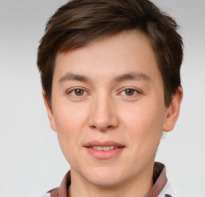
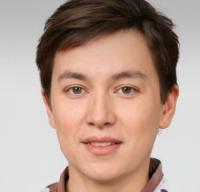
Init trad

diff --git a/Klass/mainwindow.cpp b/Klass/mainwindow.cpp
@@ -73,8 +73,39 @@ void MainWindow::setupInterfaceWithStudents()
 
 }
 
-void MainWindow::on_actiontrad_triggered()
+void MainWindow::on_actionTrad_triggered()
 {
+    static bool estEnFrancais = false;
+
+    if (!estEnFrancais) {
+        if (translator == nullptr) {
+            translator = new QTranslator(this);
+        }
+
+        if (translator->load(":/i18n/Klass_fr_FR")) {
+            qApp->installTranslator(translator);        //dans le tp on l'implémente dans le main avec a-> mais la il faut passer par qApp
+            estEnFrancais = true;
+            qDebug() << "[TRAD] French loaded from resources.";
+        } else {
+            qWarning() << "[TRAD] Failed to load :/i18n/Klass_fr_FR.";
+        }
+    }
+    else {
+        if (translator != nullptr) {
+            qApp->removeTranslator(translator);
+        }
+        estEnFrancais = false;
+        qDebug() << "[TRAD] Switched back to English.";
+    }
+
+    ui->retranslateUi(this);            // il est néssésaire de refresh l'app
+    //this->setWindowTitle(tr("Klass"));  // le titre n'est pas traduit dans le qm
+
+    // Si un étudiant est bien sélectionné on force le rafraîchissement de sa fiche pour traduire instantanément ses informations (comme le statut "Current"/"Modified")
+    int currentRow = ui->listWidget_student->currentRow();
+    if (currentRow >= 0 && currentRow < liste_of_students.size()) {
+        on_listWidget_student_currentRowChanged(currentRow);
+    }
 }
 
 
@@ -304,6 +335,9 @@ void MainWindow::on_pushButton_update_photo_clicked()
         s->setIdPhoto(nouvelleImage);
     }
 }
+
+
+
 
 
 void MainWindow::on_lineEdit_search_student_returnPressed() // quand l'utilisateur mes un nom et appui sur ENTRE pour selcetionner

diff --git a/Klass/mainwindow.h b/Klass/mainwindow.h
@@ -29,7 +29,7 @@ public:
 private slots:
     void on__add_student_clicked();
 
-    void on_actiontrad_triggered();
+    void on_actionTrad_triggered();
 
     void on_pushButton_add_absence_clicked();
 

diff --git a/Klass/main.cpp b/Klass/main.cpp
@@ -11,4 +11,6 @@ int main(int argc, char *argv[])
     MainWindow w;
     w.show();
     return a.exec();
+
+
 }
